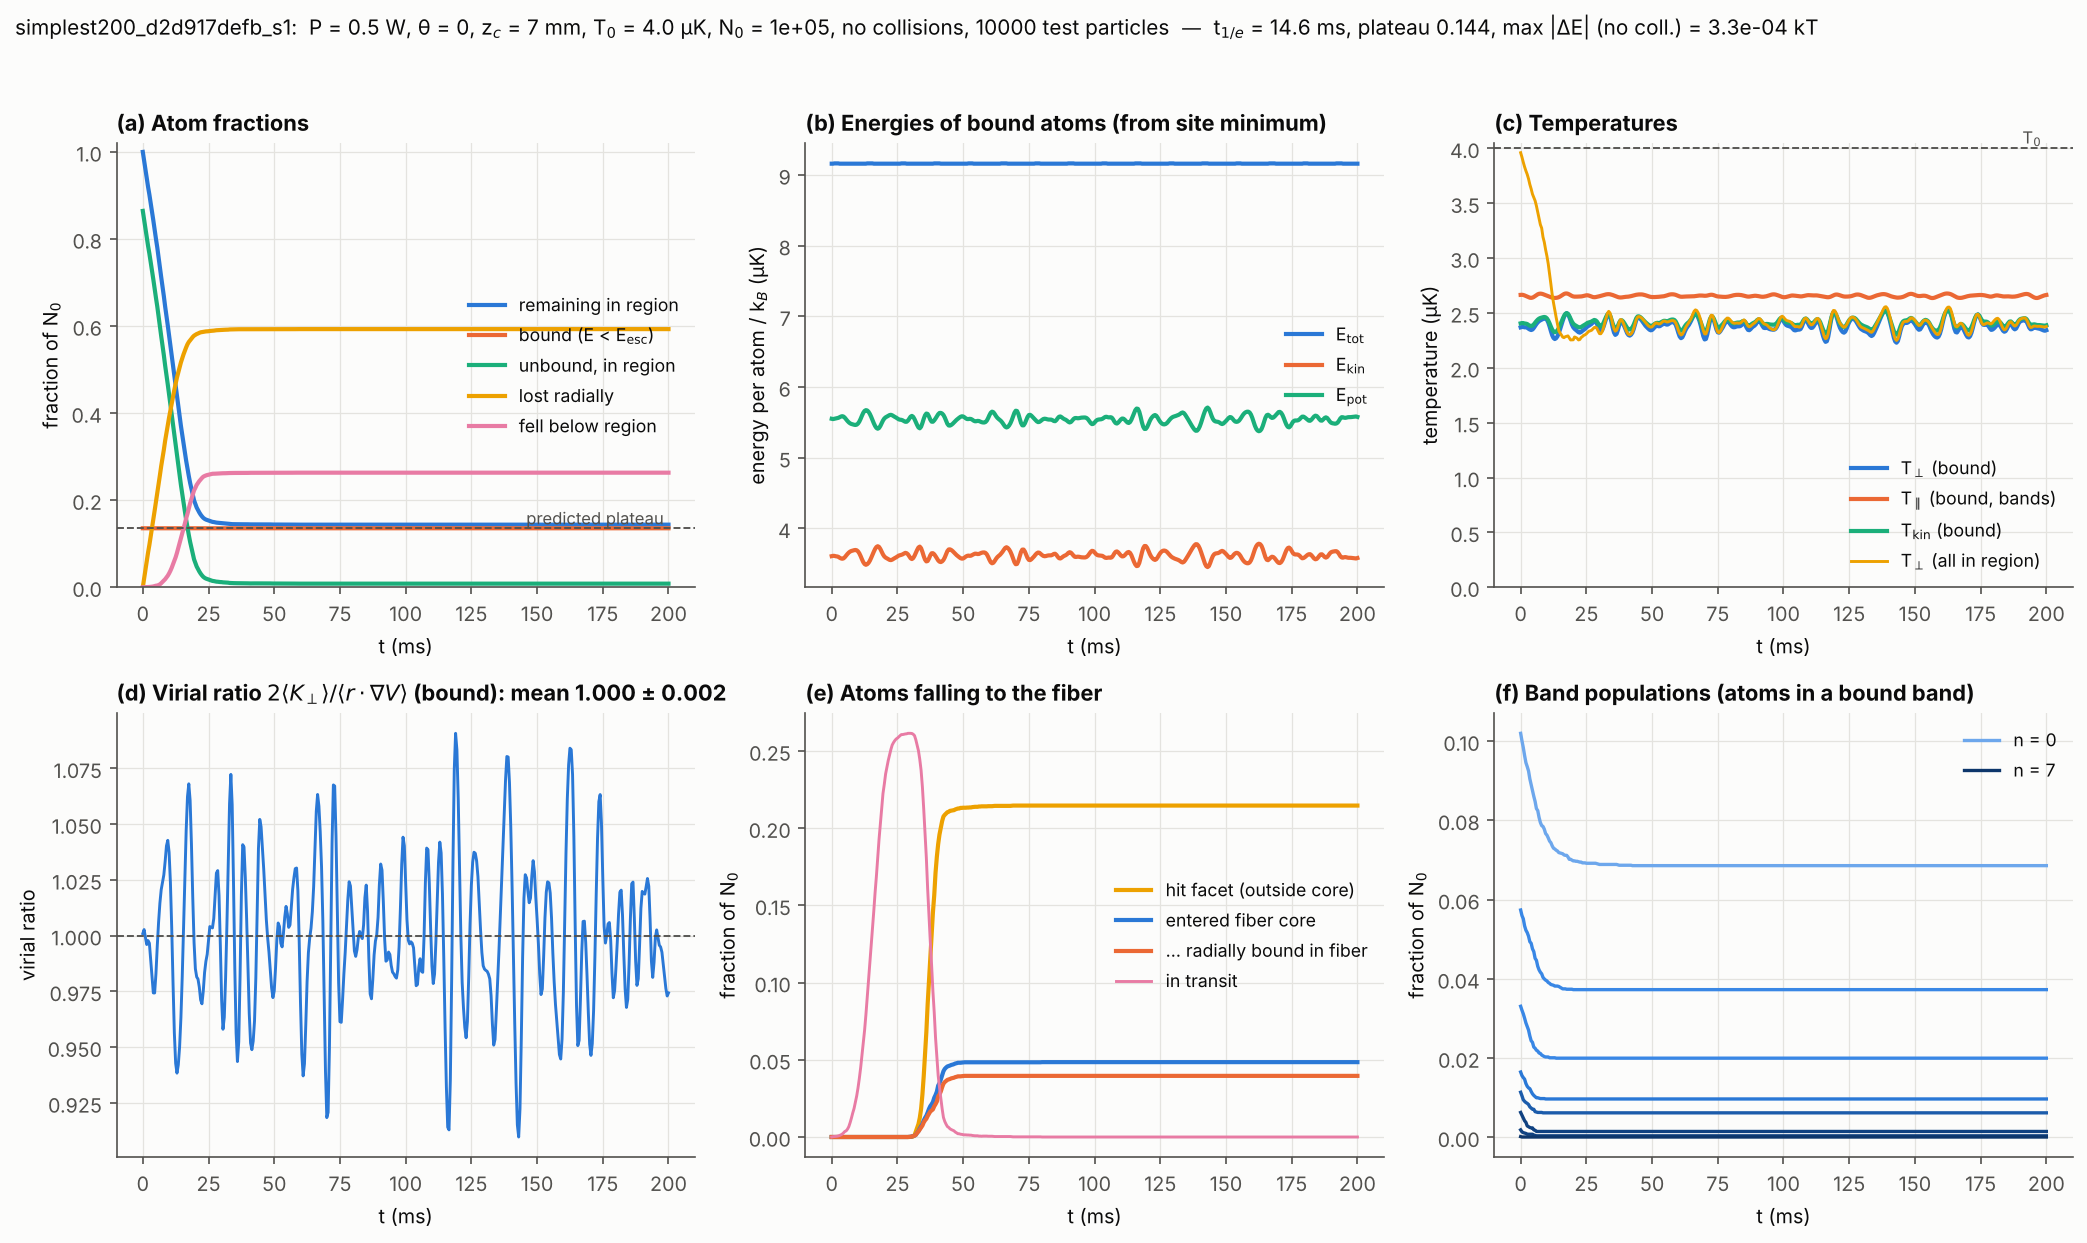
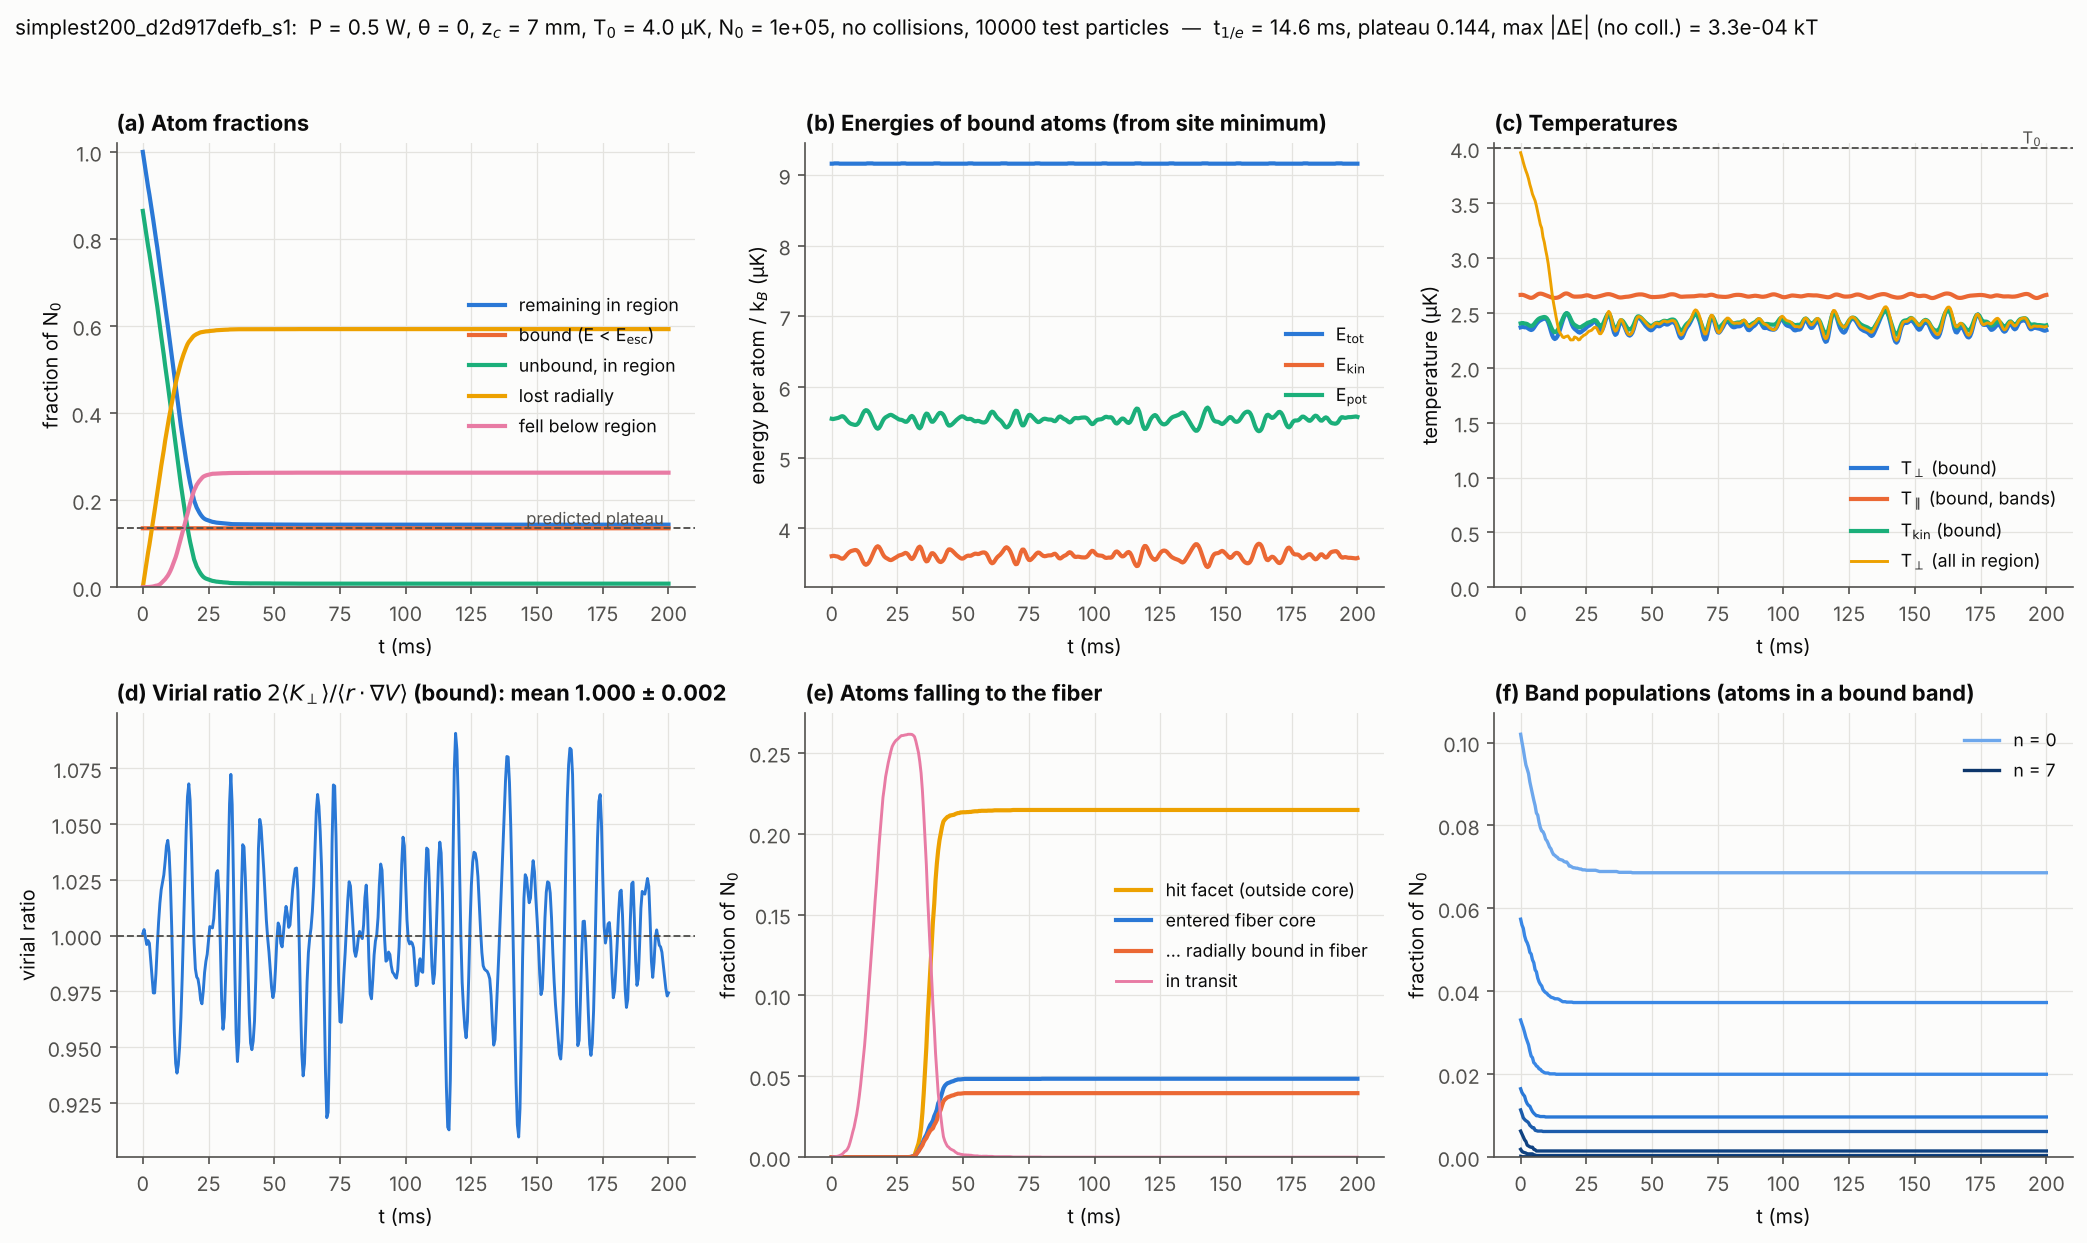
plot_timeseries: optional logarithmic y axis for fraction panels (--log-y, --both)
Claude-Session: https://claude.ai/code/session_01UQfvWTUvu2owGmJDS15n3q

diff --git a/plotting/plot_timeseries.py b/plotting/plot_timeseries.py
@@ -3,9 +3,14 @@
 
     python plotting/plot_timeseries.py results/runs/<run_id> [more run dirs ...]
     python plotting/plot_timeseries.py            # every run under results/runs/
+    python plotting/plot_timeseries.py --log-y    # fraction panels on a logarithmic y axis
+    python plotting/plot_timeseries.py --both     # linear and logarithmic versions
 
-Figure saved as results/figures/runs/<run_id>.png
+Figures saved as results/figures/runs/<run_id>.png (linear) and <run_id>_logy.png (log).
+On the log axis, zero values are not drawn and the lower limit is half the fraction one
+test particle represents (1/n_test), the resolution of the simulation.
 """
+import argparse
 import json
 import sys
 from pathlib import Path
@@ -30,7 +35,22 @@ def _line(ax, t, y, i, label, **kw):
     ax.plot(t, y, color=SERIES[i], label=label, **kw)
 
 
-def plot_run(run_dir: Path):
+def _fraction_axis(ax, logy, n_test, linear_top=None):
+    """Linear or logarithmic y axis for panels that show fractions of N0."""
+    if logy:
+        ax.set_yscale("log", nonpositive="mask")
+        floor = 0.5 / n_test
+        ax.set_ylim(floor, 1.5)
+        ax.axhline(1.0 / n_test, color=INK2, lw=0.8, ls=":")
+        ax.text(ax.get_xlim()[0], 1.0 / n_test, " 1 test particle", va="bottom", color=INK2,
+                fontsize=7.5)
+    elif linear_top is not None:
+        ax.set_ylim(0, linear_top)
+    else:
+        ax.set_ylim(0, None)
+
+
+def plot_run(run_dir: Path, logy: bool = False):
     ts = read_table(run_dir, "timeseries")
     bp = read_table(run_dir, "band_populations")
     S = json.loads((run_dir / "summary.json").read_text())
@@ -50,11 +70,12 @@ def plot_run(run_dir: Path):
     a.axhline(S["predicted_trapped_fraction"], color=INK2, lw=0.9, ls="--")
     a.text(t[-1], S["predicted_trapped_fraction"], "predicted plateau ", ha="right", va="bottom",
            color=INK2, fontsize=8)
-    a.set_ylim(0, 1.02)
+    n_test = S["n_test"]
+    _fraction_axis(a, logy, n_test, linear_top=1.02)
     a.set_xlabel("t (ms)")
     a.set_ylabel("fraction of N$_0$")
     a.set_title("(a) Atom fractions")
-    a.legend(loc="center right")
+    a.legend(loc="lower right" if logy else "center right")
 
     # (b) energies per atom of the bound set
     b = ax[1]
@@ -96,6 +117,7 @@ def plot_run(run_dir: Path):
     _line(e, t, ts["f_fiber"], 0, "entered fiber core")
     _line(e, t, ts["f_fiber_bound"], 1, "… radially bound in fiber")
     _line(e, t, ts["f_in_transit"], 4, "in transit", lw=1.4)
+    _fraction_axis(e, logy, n_test)
     e.set_xlabel("t (ms)")
     e.set_ylabel("fraction of N$_0$")
     e.set_title("(e) Atoms falling to the fiber")
@@ -108,6 +130,7 @@ def plot_run(run_dir: Path):
         sel = bp[bp["n"] == n]
         f.plot(sel["t_ms"], sel["fraction"], color=ramp_color(n, nmax), lw=1.6,
                label=f"n = {n}" if n in (0, nmax - 1) else None)
+    _fraction_axis(f, logy, n_test)
     f.set_xlabel("t (ms)")
     f.set_ylabel("fraction of N$_0$")
     f.set_title("(f) Band populations (atoms in a bound band)")
@@ -121,13 +144,23 @@ def plot_run(run_dir: Path):
         f"max |ΔE| (no coll.) = {S['max_dE_nocoll_kT']:.1e} kT",
         x=0.01, ha="left", fontsize=10)
     fig.tight_layout(rect=(0, 0, 1, 0.96))
-    return save(fig, FIGURES / "runs" / f"{run_dir.name}.png")
+    suffix = "_logy" if logy else ""
+    return save(fig, FIGURES / "runs" / f"{run_dir.name}{suffix}.png")
 
 
 def main():
-    runs = [Path(p) for p in sys.argv[1:]] or sorted((RESULTS / "runs").glob("*/"))
+    ap = argparse.ArgumentParser(description=__doc__,
+                                 formatter_class=argparse.RawDescriptionHelpFormatter)
+    ap.add_argument("runs", nargs="*", help="run folders (default: all under results/runs/)")
+    g = ap.add_mutually_exclusive_group()
+    g.add_argument("--log-y", action="store_true", help="logarithmic y axis for fractions")
+    g.add_argument("--both", action="store_true", help="write linear and logarithmic figures")
+    args = ap.parse_args()
+    runs = [Path(p) for p in args.runs] or sorted((RESULTS / "runs").glob("*/"))
+    modes = [False, True] if args.both else [args.log_y]
     for r in runs:
-        print(plot_run(r))
+        for logy in modes:
+            print(plot_run(r, logy=logy))
 
 
 if __name__ == "__main__":
